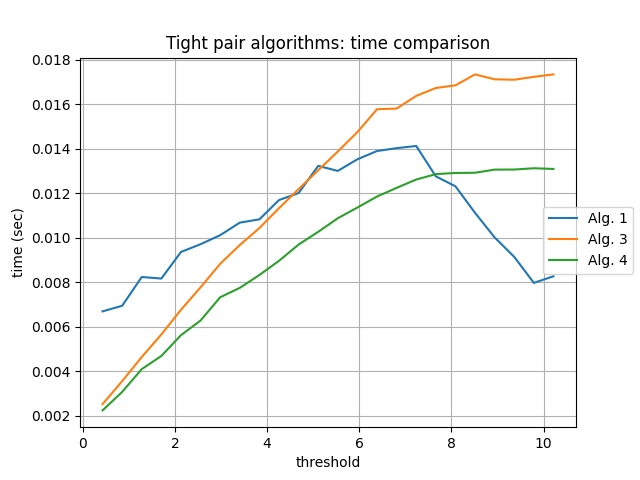
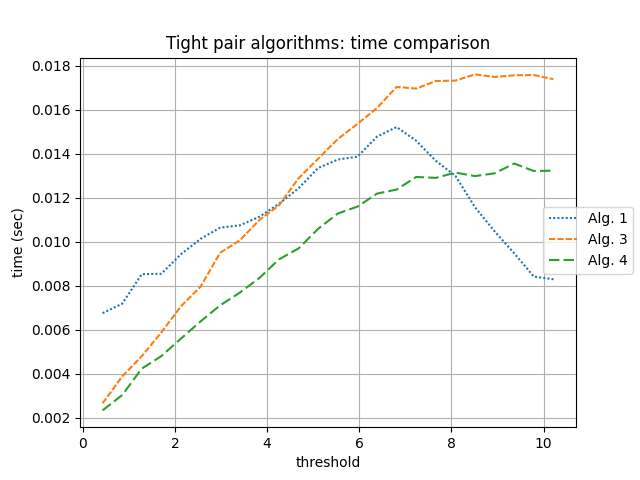
Dashed lines for b/w printing

diff --git a/src/timing_1_3_4.py b/src/timing_1_3_4.py
@@ -8,18 +8,18 @@ from math import log
 import networkx as nx
 import matplotlib.pyplot as plt
 
-def partprint(ls, gr, grcs):
-	"skip single-vertex paths"
-	cnt = 0
-	for (s, t) in ls:
-		if s != t: 
-			cnt += 1
-			print(f"{cnt}/ {s} {gr.nodes[s]['weight']} {grcs.supp[unpack(s)]} --  {t} {gr.nodes[t]['weight']} {grcs.supp[unpack(t)]}")
+# ~ def partprint(ls, gr, grcs):
+	# ~ "skip single-vertex paths"
+	# ~ cnt = 0
+	# ~ for (s, t) in ls:
+		# ~ if s != t: 
+			# ~ cnt += 1
+			# ~ print(f"{cnt}/ {s} {gr.nodes[s]['weight']} {grcs.supp[unpack(s)]} --  {t} {gr.nodes[t]['weight']} {grcs.supp[unpack(t)]}")
 
-dlen = 1597 # number of transactions in dataset
-gr = nx.read_edgelist("../graphs/fromdata/NOW1_logsupp.elist", 
-# ~ dlen = 1000
-# ~ gr = nx.read_edgelist("../graphs/fromdata/markbask_logsupp.elist", 
+# ~ dlen = 1597 # number of transactions in dataset
+# ~ gr = nx.read_edgelist("../graphs/fromdata/NOW1_logsupp.elist", 
+dlen = 1000
+gr = nx.read_edgelist("../graphs/fromdata/markbask_logsupp.elist", 
 # ~ dlen = 13
 # ~ gr = nx.read_edgelist("../graphs/fromdata/e13b_logsupp.elist", 
                      create_using = nx.DiGraph)
@@ -80,15 +80,15 @@ for thr in thrs:
 	plotcol2.append((t3 - t2) / rep)
 
 fig, ax = plt.subplots()
-ax.plot(thrs, plotcol0, label = "Alg. 1")
-ax.plot(thrs, plotcol1, label = "Alg. 3")
-ax.plot(thrs, plotcol2, label = "Alg. 4")
+ax.plot(thrs, plotcol0, label = "Alg. 1", dashes = [1, 1])
+ax.plot(thrs, plotcol1, label = "Alg. 3", dashes = [3, 1])
+ax.plot(thrs, plotcol2, label = "Alg. 4", dashes = [5, 2])
 
 ax.set(xlabel='threshold', ylabel='time (sec)',
        title='Tight pair algorithms: time comparison')
 ax.grid()
 
 fig.legend(loc='center right')
-fig.savefig("timing_1_3_4_NOW1.png")
+fig.savefig("timing_1_3_4_markbask.png")
 plt.show()
 

diff --git a/src/timing_2_3.py b/src/timing_2_3.py
@@ -47,8 +47,10 @@ for thr in thrs:
 	plotcol1.append(t2 - t1)
 
 fig, ax = plt.subplots()
-ax.plot(thrs, plotcol0, label = "Paths (alg. 2)")
-ax.plot(thrs, plotcol1, label = "Pairs (alg. 3)")
+# ~ ax.plot(thrs, plotcol0, label = "Paths (alg. 2)", marker = 'o')
+# ~ ax.plot(thrs, plotcol1, label = "Pairs (alg. 3)", marker = '^')
+ax.plot(thrs, plotcol0, label = "Paths (alg. 2)", dashes = [1, 1])
+ax.plot(thrs, plotcol1, label = "Pairs (alg. 3)", dashes = [5, 1])
 
 ax.set(xlabel='threshold', ylabel='time (sec)',
        title='Tight paths versus tight pairs: time comparison')
